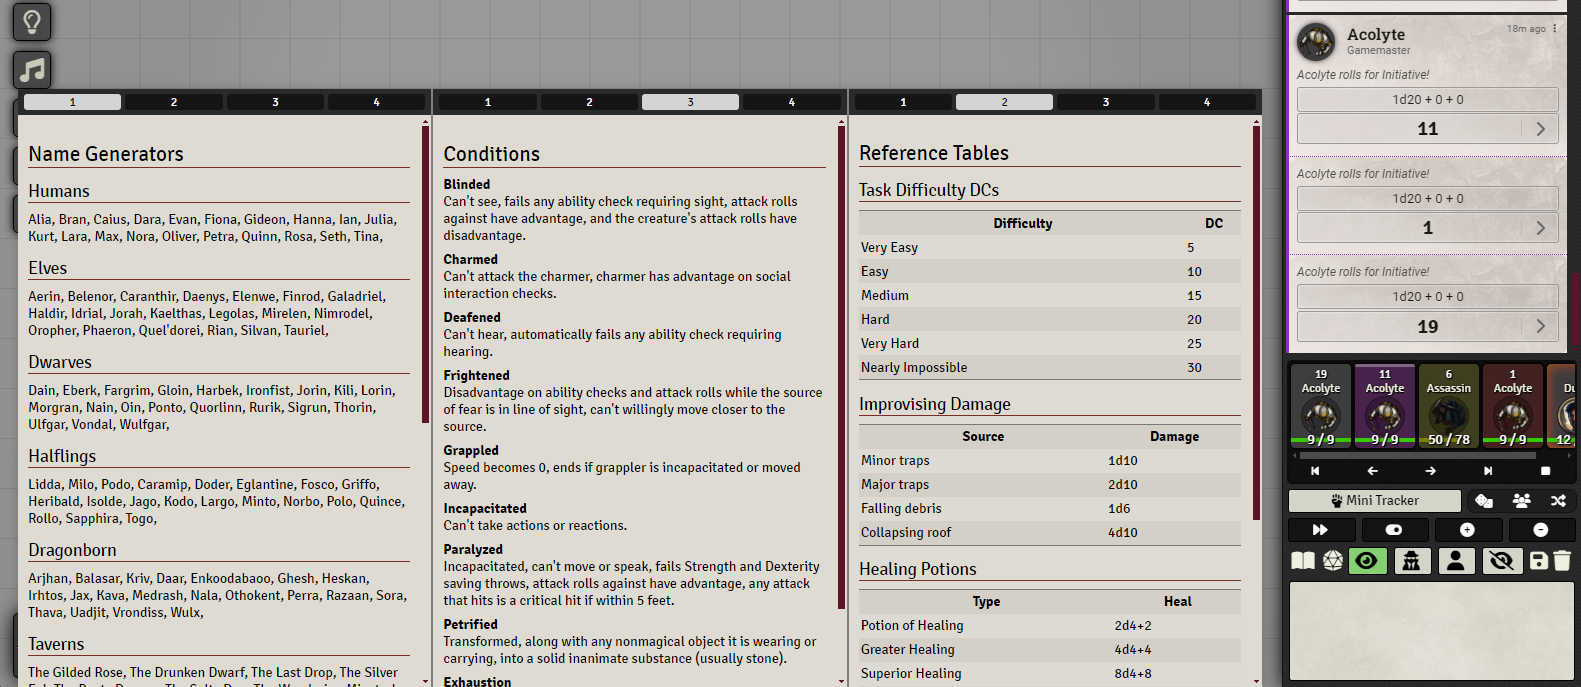
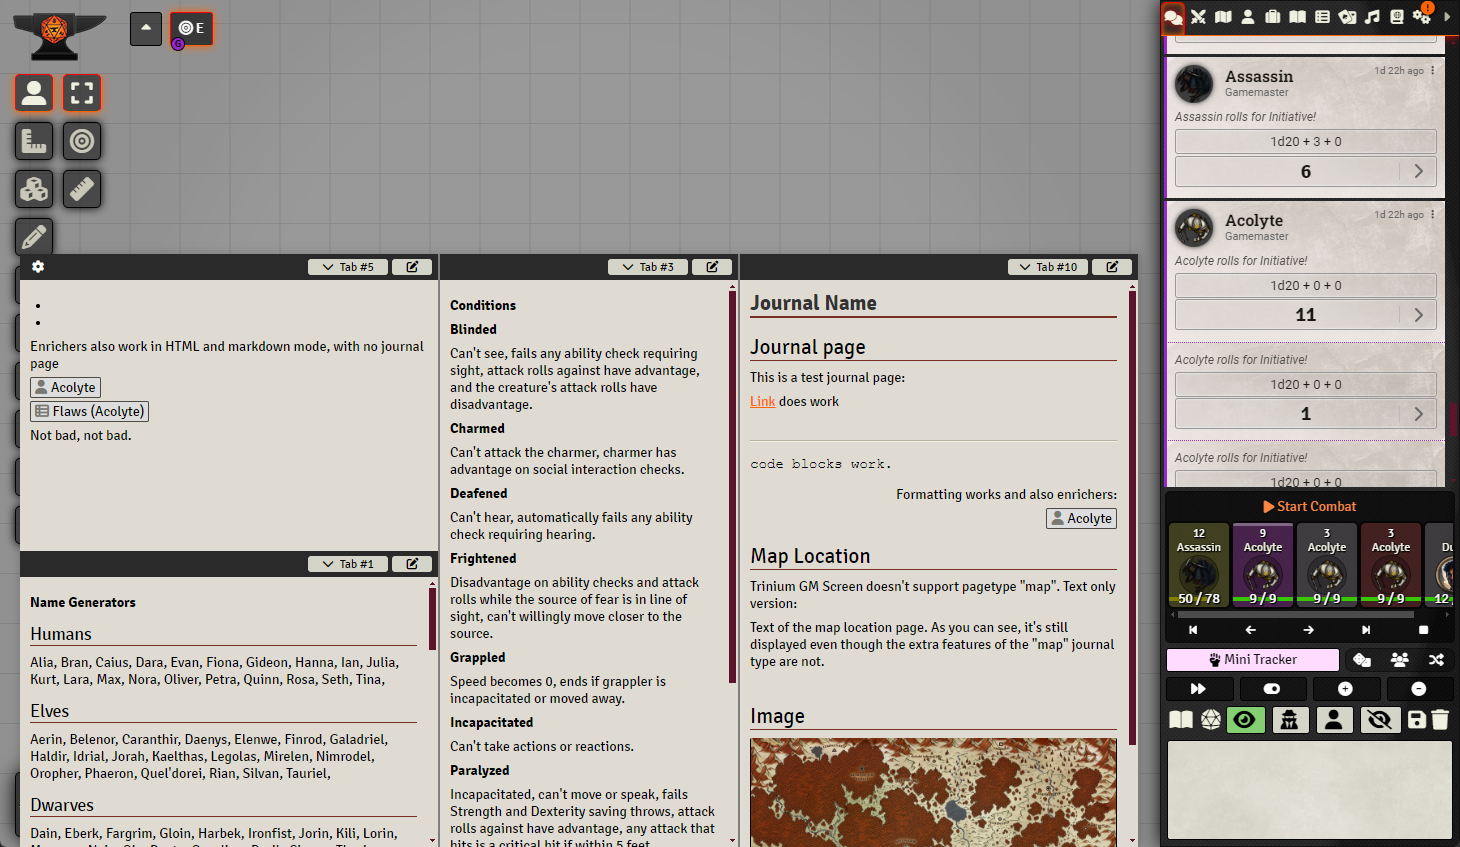
v1.5.0 update

diff --git a/Readme.md b/Readme.md
@@ -1,7 +1,7 @@
 # Trinium Chat Buttons
 
 [![Latest Release](https://img.shields.io/github/v/release/thedarktongo/trinium-chat-buttons)](https://github.com/thedarktongo/trinium-chat-buttons/releases/latest)
-[![License](https://img.shields.io/github/license/thedarktongo/trinium-chat-buttons)](https://github.com/thedarktongo/trinium-chat-buttons/blob/main/LICENSE)
+[![License](https://img.shields.io/github/license/thedarktongo/trinium-chat-buttons)](https://github.com/thedarktongo/trinium-chat-buttons/blob/main/LICENSE.md)
 [![Discord](https://img.shields.io/discord/1264218090061955132?label=Discord)](https://discord.gg/6KUmpqef)
 
 
@@ -11,7 +11,7 @@ Trinium Chat Buttons is a Foundry VTT module that adds several new buttons below
 
 ![GM Buttons](https://github.com/TheDarkTongo/trinium-chat-buttons/blob/main/media/examples/buttons-GM.png)
 
-- **GM Screen**: Show a customizable, tabbed, highly configurable, editable GM Screen. Expands as a sidebar or large screen. Supports Markdown and HTML with live preview.
+- **GM Screen**: Show a customizable, tabbed, highly configurable, editable GM Screen. Expands as a sidebar or large screen. Supports Markdown, HTML, Journals and Enrichers with live preview.
 - **Roll Privacy Buttons**: Switch between different roll types (Public Roll, GM Roll, Self Roll, Blind Roll) using buttons instead of a dropdown.
 - **MIDI QOL Buttons**: Toggle MIDI QOL features on and off and visualize its keybindings. Requires [Midi QOL](https://gitlab.com/tposney/midi-qol).
 - **Mini Combat Tracker**: Compact, feature-packed and easy to use. 
@@ -21,15 +21,21 @@ Trinium Chat Buttons is a Foundry VTT module that adds several new buttons below
 
 ## GM Screen
 
-Everything you need to know at the click of a single button! Try it in Sidebar mode or Bottom Mode as seen here:
+Everything you need to know at the click of a single button! Try it in the super-compact Sidebar mode or Bottom Mode as seen here:
 
 ![GM Screen Bottom mode](https://github.com/TheDarkTongo/trinium-chat-buttons/blob/main/media/examples/gm-screen.png)
 
 #### Features
 
-- **Editable Content:** Fully editable to keep exactly the information you want at your fingertips. Supports Markdown and HTML with live preview.
-- **Tabs:** 4 different tabs let you organize your content while keeping the screen compact. You can also have up to 4 "Columns", to have all tabs (or multiple of the same scrolled at different heights) at once.
-- **Customizable:** Open from the right, left or bottom, with customizable sizes!
+- **Build-in Editor:** Fully editable content to keep exactly the information you want at your fingertips. Supports Markdown and HTML with live preview.
+- **Sections:** Up to 4 columns and 3 rows for a total of up to 12 sections! 
+- **Tabs:** Each section can show one of 12 tabs. You can have multiple sections on the same tab (scrolled to different heights maybe) or, like me, use a very compact screen that can switch between a ton of different content quickly.
+- **Customizable Sizes:** Open from the right, left or bottom and customize the width, height and more.
+
+#### Journals and Enrichers:
+
+- **Journals:** To render a journal, delete all content of a tab and set it to the journal's UUID. You can copy it by clicking the icon in the top-left of a journal. Looks like this: "JournalEntry.HRNRygUvR91F8BOB". Currently, Text and Images are fully supported, but images may cause some lag upon first load.
+- **Enrichers:** Enrichers should be automatically rendered for content supported by your game system. To use them in HTML/Markdown, you must paste the enricher string directly in the editor. Drag-drop will be supported at a later time.
 
 ## Roll Privacy and MIDI Buttons
 
